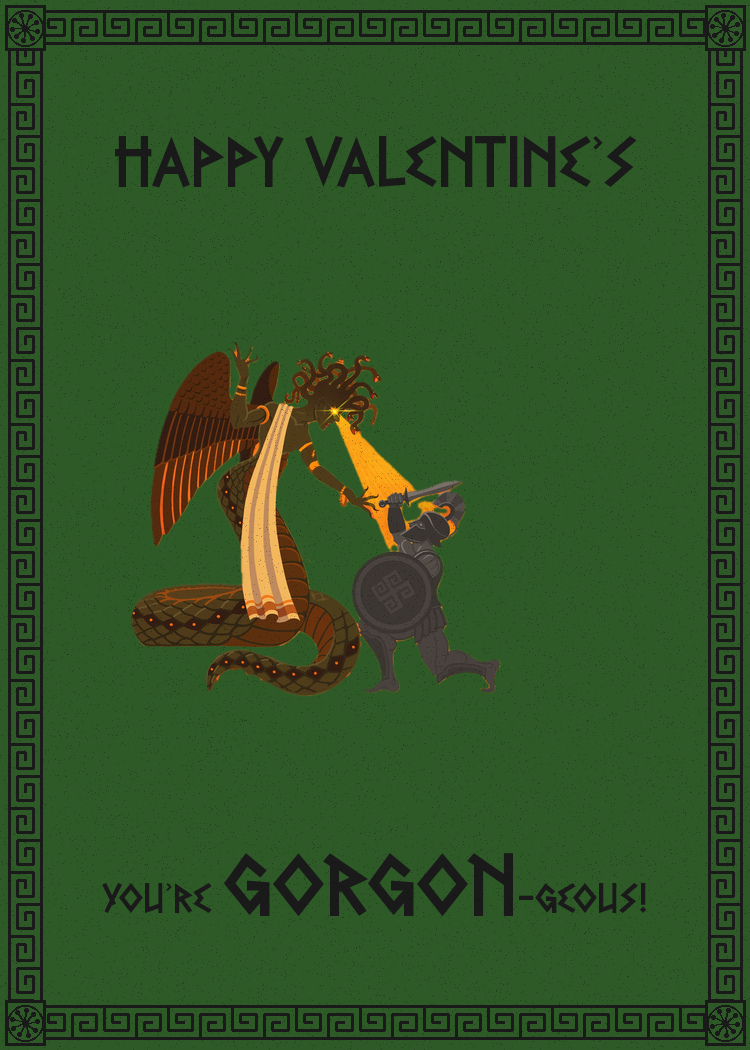
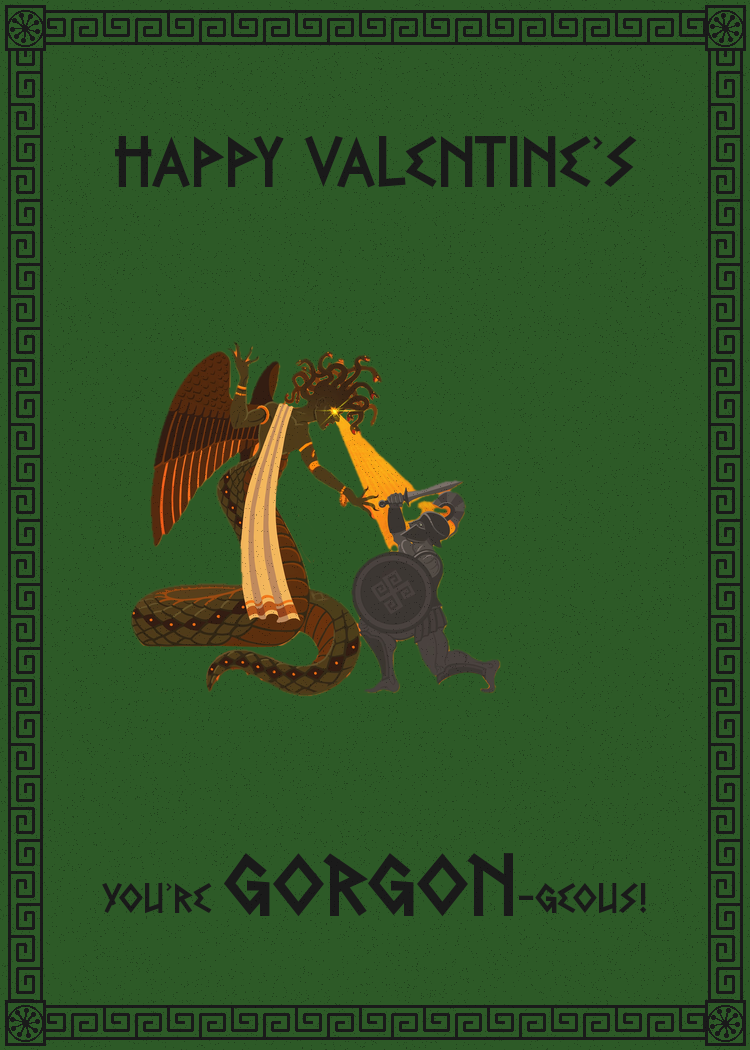
Remove snake head/tail from maze

diff --git a/src/greek_design_system.py b/src/greek_design_system.py
@@ -600,28 +600,6 @@ def generate_greek_card_back(
     # Draw maze using the renderer
     renderer.draw_maze(draw, grid, maze_x, maze_y, cell_size)
 
-    # For snake wall type, add snake head at entrance and tail at exit
-    if wall_type == "snake":
-        from wall_renderers import SnakeWallRenderer
-
-        # Calculate entrance/exit positions - connect to the wall openings
-        entrance_col = maze_cols // 2
-        # Head connects at the top of the maze entrance gap
-        entrance_x = maze_x + entrance_col * cell_size + cell_size // 2
-        entrance_y = maze_y  # Right at the top edge of maze
-
-        # Tail connects at the bottom of the maze exit gap
-        exit_x = entrance_x
-        exit_y = maze_y + maze_rows * cell_size  # Right at the bottom edge of maze
-
-        # Draw snake head entering the maze (pointing down, connected to entrance)
-        head_size = cell_size - 4  # Size to fit the opening
-        SnakeWallRenderer.draw_snake_head(draw, entrance_x, entrance_y - head_size // 2, head_size, wall_color, "down")
-
-        # Draw snake tail exiting the maze (pointing down, connected to exit)
-        tail_size = cell_size - 8
-        SnakeWallRenderer.draw_snake_tail(draw, exit_x, exit_y + tail_size // 2 + 5, tail_size, wall_color, "down")
-
     # Get text settings from config or use defaults
     if config:
         start_label = config.back_text.start_label
